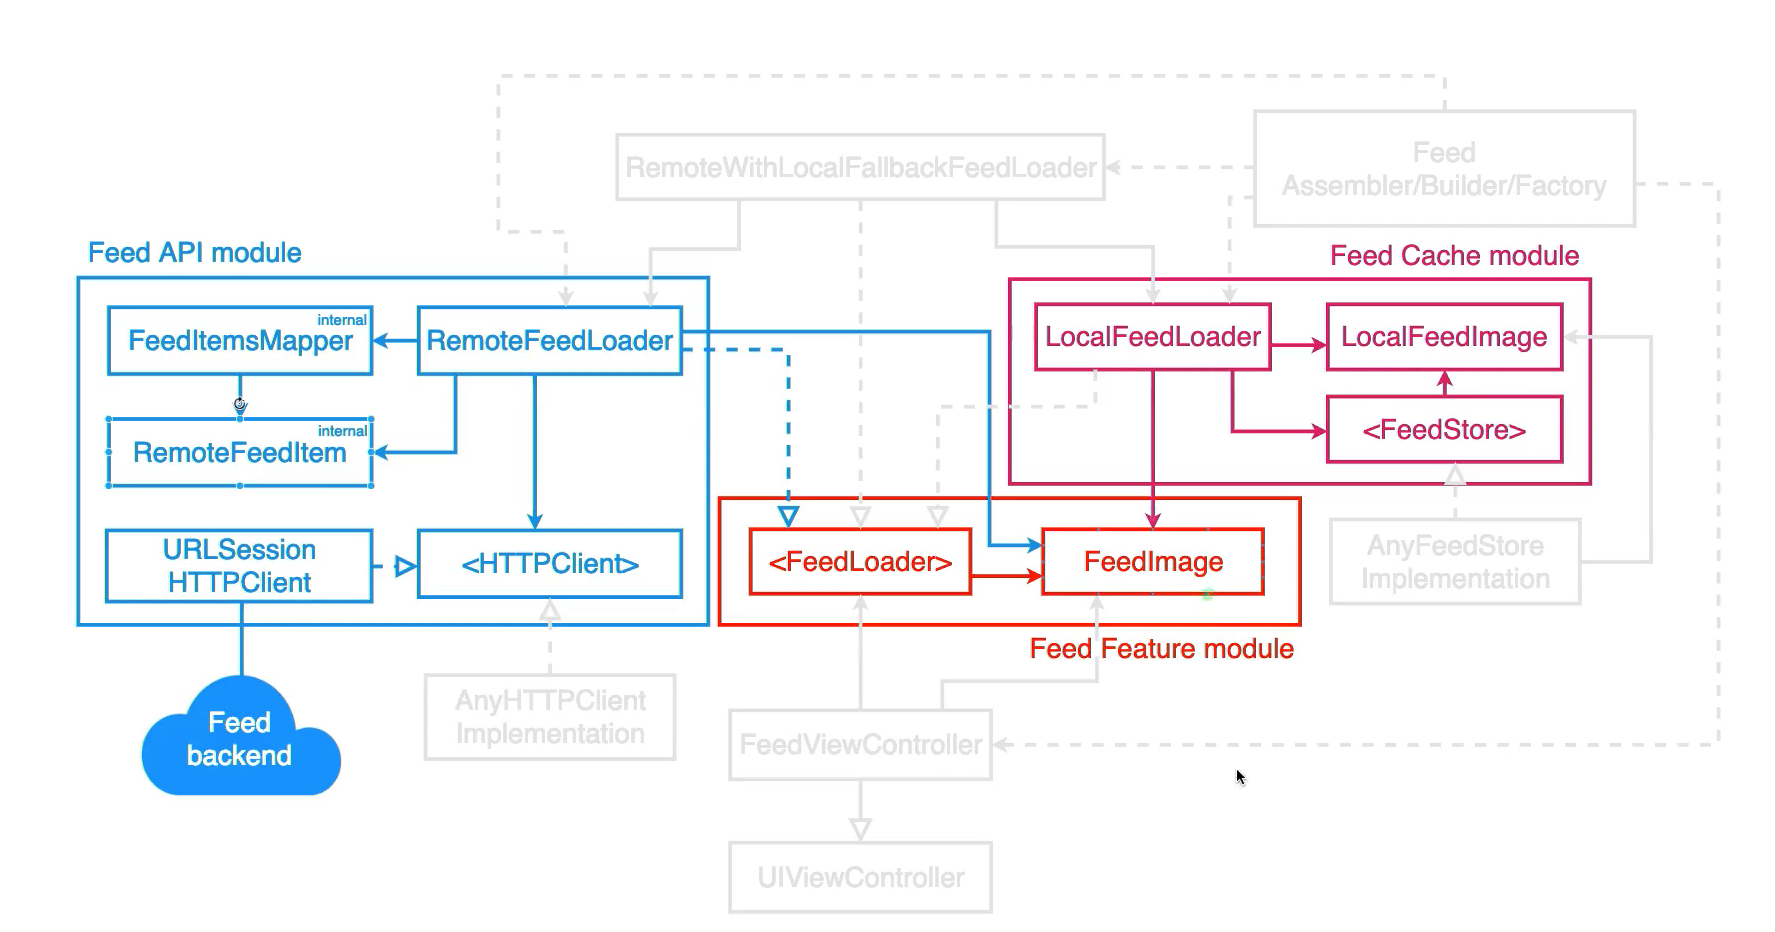
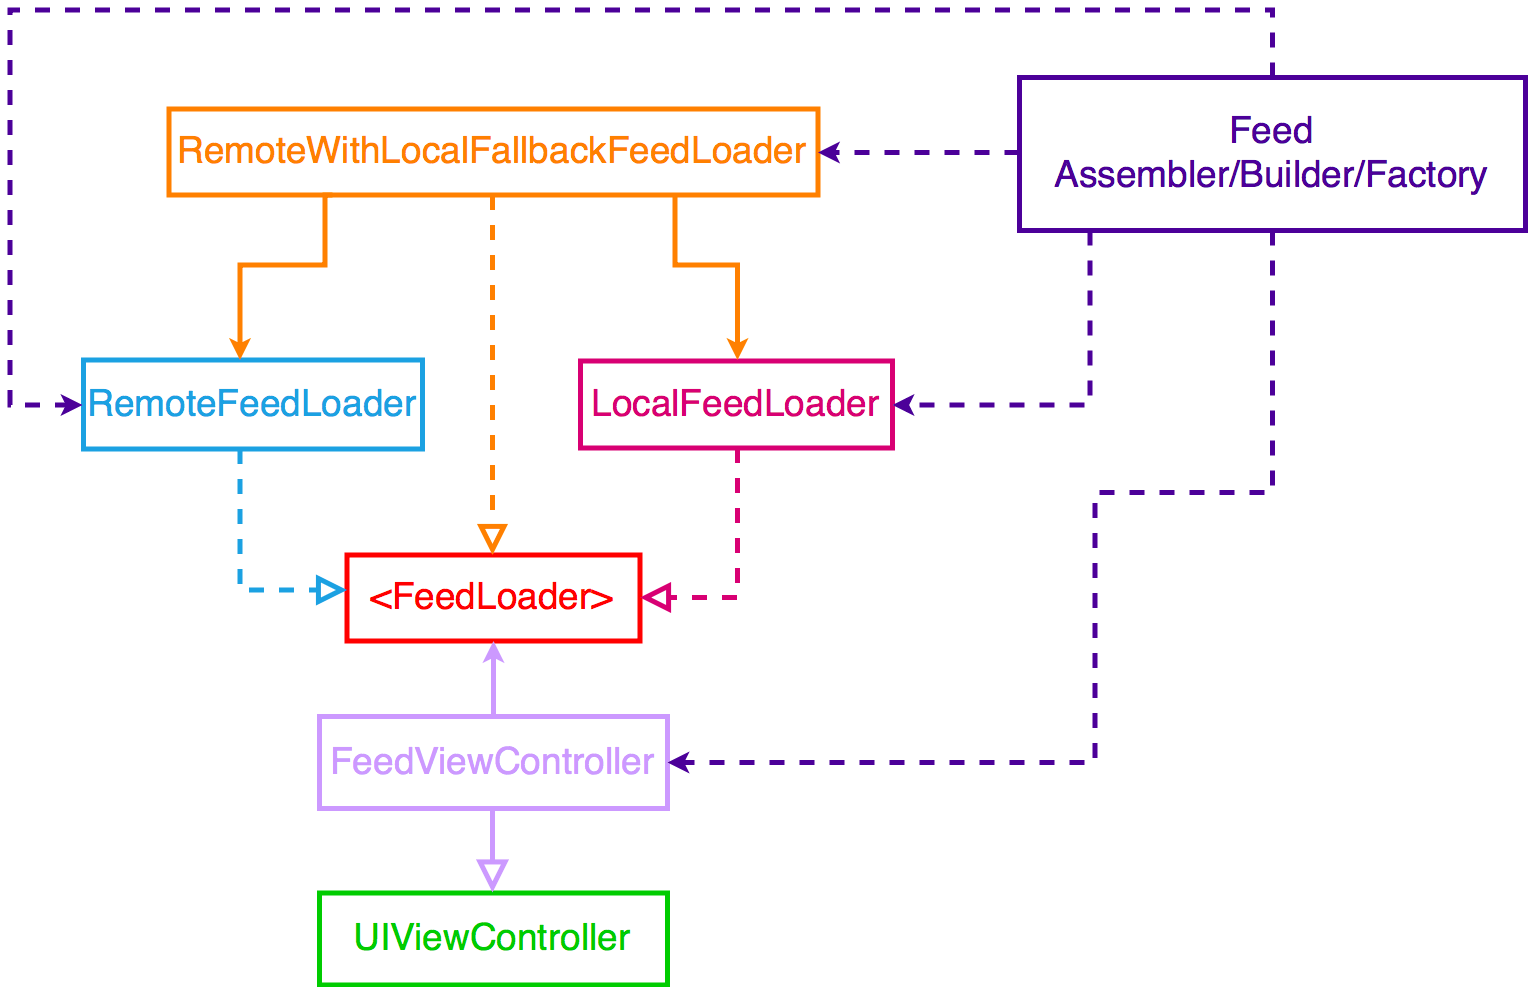
PRD 명확하게 수정

diff --git a/README.md b/README.md
@@ -1,0 +1,168 @@
+# Essential Feed App – Image Feed Feature
+
+[![Build Status](https://travis-ci.com/essentialdevelopercom/essential-feed-case-study.svg?branch=master)](https://travis-ci.com/essentialdevelopercom/essential-feed-case-study)
+
+## BDD Specs
+
+### Story: Customer requests to see their image feed
+
+### Narrative #1
+
+```
+As an online customer
+I want the app to automatically load my latest image feed
+So I can always enjoy the newest images of my friends
+```
+
+#### Scenarios (Acceptance criteria)
+
+```
+Given the customer has connectivity
+ When the customer requests to see their feed
+ Then the app should display the latest feed from remote
+  And replace the cache with the new feed
+```
+
+### Narrative #2
+
+```
+As an offline customer
+I want the app to show the latest saved version of my image feed
+So I can always enjoy images of my friends
+```
+
+#### Scenarios (Acceptance criteria)
+
+```
+Given the customer doesn't have connectivity
+  And there’s a cached version of the feed
+  And the cache is less than seven days old
+ When the customer requests to see the feed
+ Then the app should display the latest feed saved
+
+Given the customer doesn't have connectivity
+  And there’s a cached version of the feed
+  And the cache is seven days old or more
+ When the customer requests to see the feed
+ Then the app should display an error message
+
+Given the customer doesn't have connectivity
+  And the cache is empty
+ When the customer requests to see the feed
+ Then the app should display an error message
+```
+
+## Use Cases
+
+### Load Feed From Remote Use Case
+
+#### Data:
+- URL
+
+#### Primary course (happy path):
+1. Execute "Load Image Feed" command with above data.
+2. System downloads data from the URL.
+3. System validates downloaded data.
+4. System creates image feed from valid data.
+5. System delivers image feed.
+
+#### Invalid data – error course (sad path):
+1. System delivers invalid data error.
+
+#### No connectivity – error course (sad path):
+1. System delivers connectivity error.
+
+
+### Load Feed From Cache Use Case
+
+#### Primary course:
+1. Execute "Load Image Feed" command with above data.
+2. System retrieves feed data from cache.
+3. System validates cache is less than seven days old.
+4. System creates image feed from cached data.
+5. System delivers image feed.
+
+#### Retrieval error course (sad path):
+1. System deletes cache.
+2. System delivers error.
+
+#### Expired cache course (sad path): 
+1. System deletes cache.
+2. System delivers no feed images.
+
+#### Empty cache course (sad path): 
+1. System delivers no feed images.
+
+
+### Cache Feed Use Case
+
+#### Data:
+- Image Feed
+
+#### Primary course (happy path):
+1. Execute "Save Image Feed" command with above data.
+2. System deletes old cache data.
+3. System encodes image feed.
+4. System timestamps the new cache.
+5. System saves new cache data.
+6. System delivers success message.
+
+#### Deleting error course (sad path):
+1. System delivers error.
+
+#### Saving error course (sad path):
+1. System delivers error.
+
+
+## Flowchart
+
+![Feed Loading Feature](feed_flowchart.png)
+
+## Architecture
+
+![Feed Loading Feature](feed_architecture.png)
+
+## Model Specs
+
+### Feed Image
+
+| Property      | Type                |
+|---------------|---------------------|
+| `id`          | `UUID`              |
+| `description` | `String` (optional) |
+| `location`    | `String` (optional) |
+| `url`	        | `URL`               |
+
+### Payload contract
+
+```
+GET *url* (TBD)
+
+200 RESPONSE
+
+{
+	"items": [
+		{
+			"id": "a UUID",
+			"description": "a description",
+			"location": "a location",
+			"image": "https://a-image.url",
+		},
+		{
+			"id": "another UUID",
+			"description": "another description",
+			"image": "https://another-image.url"
+		},
+		{
+			"id": "even another UUID",
+			"location": "even another location",
+			"image": "https://even-another-image.url"
+		},
+		{
+			"id": "yet another UUID",
+			"image": "https://yet-another-image.url"
+		}
+		...
+	]
+}
+```
